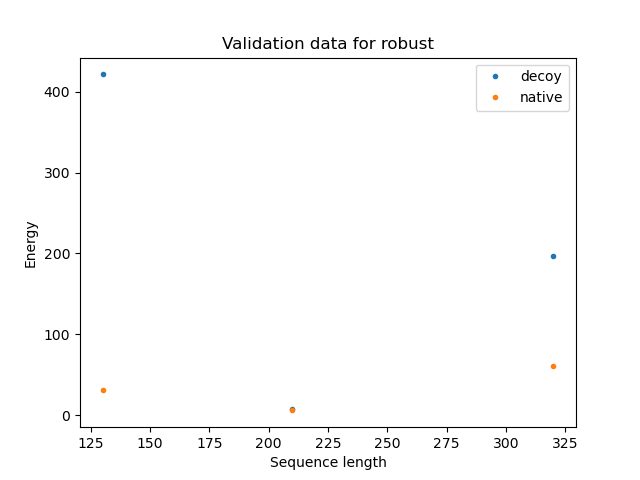
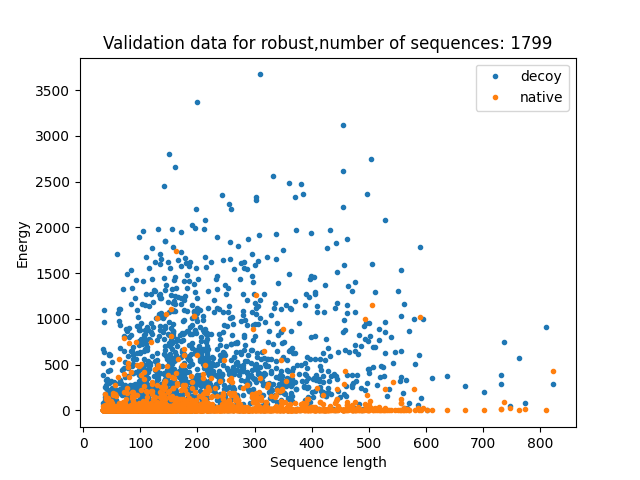
Add plots to represent energy and energy delta

diff --git a/train_utils.py b/train_utils.py
@@ -1,5 +1,6 @@
 import torch
 import matplotlib.pyplot as plt
+import numpy as np
 
 def save_checkpoint(epoch, model, optimizer,loss,val_loss,path):
     """
@@ -47,7 +48,7 @@ def validation_plots(Exd,Exn,seq_len,type):
     """
     # Plot the validation data
     fig, ax = plt.subplots()
-    ax.set_title(f'Validation data for {type}')
+    ax.set_title(f'Validation data for {type},number of sequences: {len(Exd)}')
     ax.set_xlabel('Sequence length')
     ax.set_ylabel('Energy')
     ax.margins(0.05) # Optional, just adds 5% padding to the autoscaling
@@ -57,5 +58,22 @@ def validation_plots(Exd,Exn,seq_len,type):
 
     #plt.show()
     plt.savefig(f'./plots/E_len_{type}.png')
+    
+    plt.close()
+    
+    # plot validation energy delta
+    delta_E = np.array([Exd[i]-Exn[i] for i in range(len(seq_len))])
+    seq_len = np.array(seq_len)
+    fig, ax = plt.subplots()
+    ax.set_title(f'Validation data for {type},number of sequences: {len(Exd)}')
+    ax.set_xlabel('Sequence length')
+    ax.set_ylabel('Energy delta log')
+    ax.margins(0.05) # Optional, just adds 5% padding to the autoscaling
+    ax.plot(seq_len[delta_E>0], np.log(delta_E[delta_E>=0]+1), marker='o', linestyle='', ms=3, label='positive')
+    ax.plot(seq_len[delta_E<0], -1*np.log(-1*delta_E[delta_E<0] +1), marker='o', linestyle='', ms=3, label='negative')
+    ax.legend()
+
+    #plt.show()
+    plt.savefig(f'./plots/Edelta_len_{type}.png')
     
     plt.close()

diff --git a/train-hydro.py b/train-hydro.py
@@ -74,8 +74,9 @@ def validation(model, dataloader, device,epoch,N,optimizer,type = 'robust'):
         torch.cuda.empty_cache()
         gc.collect()
         # update the progress bar
-        if index % 1000 == 999:
-            print(f"Validation loss: {valid_loss/(index + 1)}")
+        if index % 100 == 99:
+            print(f"Validation loss: {round(valid_loss/(index + 1),2)}, index: {index}")
+            validation_plots(Exd_list,Exn_list,seq_len,type)
         #tepoch.set_postfix({"loss":round(loss.item(),3),"running loss":round(valid_loss/(index + 1),3),"lossd":round(lossd.item(),3),"lossg":round(lossg.item(),3),"Exn":round(Exn.item(),3),"Exd":round(Exd.item(),3)})
         
         Exd_list.append(Exd.item())
@@ -83,6 +84,8 @@ def validation(model, dataloader, device,epoch,N,optimizer,type = 'robust'):
         seq_len.append(Xd.shape[0])
     
     validation_plots(Exd_list,Exn_list,seq_len,type)
+    
+    print(f"Finished Validation {type}")
             
     return valid_loss/len(dataloader)
 

diff --git a/model/model_cfg.py b/model/model_cfg.py
@@ -1,7 +1,7 @@
 import torch
 
 class CFG:
-    device = torch.device("cpu")#torch.device("cuda:0" if torch.cuda.is_available() else "mps" if torch.backends.mps.is_available() else "cpu")  # Use GPU is avaliable
+    device = torch.device("cuda:0" if torch.cuda.is_available() else "mps" if torch.backends.mps.is_available() else "cpu")  # Use GPU is avaliable
     if(device.type == "cuda" or device.type == "mps"):
         torch.cuda.empty_cache()
         cuda = True
@@ -10,7 +10,7 @@ class CFG:
         
     data_path = './data/data2'
     seed = 42
-    debug = True
+    debug = False
     # Train data parameters
     homothresh = 0.9
     constraint = True
